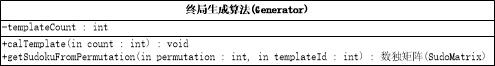
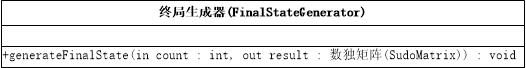
Site updated: 2020-01-17 15:29:04

Changed region(s): [[0.0, 0.0, 1.0, 1.0], [0.303, 0.0606, 0.697, 0.2727]]

diff --git a/2019/12/23/Software-Engineering-Project/index.html b/2019/12/23/Software-Engineering-Project/index.html
@@ -115,8 +115,12 @@
 <meta property="og:image" content="https://zhouyifan.net/2019/12/23/Software-Engineering-Project/ClassSolveAlgorithm.jpg">
 <meta property="og:image" content="https://zhouyifan.net/2019/12/23/Software-Engineering-Project/ClassGenerateAlgorithm.jpg">
 <meta property="og:image" content="https://zhouyifan.net/2019/12/23/Software-Engineering-Project/ClassGetEndGameAlgorithm.jpg">
+<meta property="og:image" content="https://zhouyifan.net/2019/12/23/Software-Engineering-Project/ClassGenerator.jpg">
+<meta property="og:image" content="https://zhouyifan.net/2019/12/23/Software-Engineering-Project/ClassSolver.jpg">
+<meta property="og:image" content="https://zhouyifan.net/2019/12/23/Software-Engineering-Project/ClassEndGameGenerator.jpg">
+<meta property="og:image" content="https://zhouyifan.net/2019/12/23/Software-Engineering-Project/ClassCmdInteraction.jpg">
 <meta property="og:image" content="https://zhouyifan.net/2019/12/23/Software-Engineering-Project/Result1-1.jpg">
-<meta property="og:updated_time" content="2020-01-17T02:35:47.576Z">
+<meta property="og:updated_time" content="2020-01-17T07:28:38.141Z">
 <meta name="twitter:card" content="summary">
 <meta name="twitter:title" content="软件工程个人项目：数独软件">
 <meta name="twitter:description" content="数独求解软件Github链接Sudoku Solver PSP耗时表    PSP2.1 Personal Software Process Stages Expected time (min) Actual time (min)     Planning 计划 20 50   · Estimate · 估计这个任务需要多少时间 20 50   Development 开发 980    · An">
@@ -642,11 +646,22 @@
 <p>(花费5分钟)</p>
 <h5 id="残局生成算法"><a href="#残局生成算法" class="headerlink" title="残局生成算法"></a>残局生成算法</h5><p><img src="//zhouyifan.net/2019/12/23/Software-Engineering-Project/ClassGetEndGameAlgorithm.jpg" alt="GetEndGame"></p>
 <p>(花费5分钟)</p>
+<h5 id="终局生成器"><a href="#终局生成器" class="headerlink" title="终局生成器"></a>终局生成器</h5><p><img src="//zhouyifan.net/2019/12/23/Software-Engineering-Project/ClassGenerator.jpg" alt="Generator"></p>
+<h5 id="求解器"><a href="#求解器" class="headerlink" title="求解器"></a>求解器</h5><p><img src="//zhouyifan.net/2019/12/23/Software-Engineering-Project/ClassSolver.jpg" alt="Solver"></p>
+<h5 id="残局生成器"><a href="#残局生成器" class="headerlink" title="残局生成器"></a>残局生成器</h5><p><img src="//zhouyifan.net/2019/12/23/Software-Engineering-Project/ClassEndGameGenerator.jpg" alt="EndGameGenerator"></p>
+<p>(共花费14分钟)</p>
+<h5 id="用户交互"><a href="#用户交互" class="headerlink" title="用户交互"></a>用户交互</h5><p>用户交互部分需要对数独矩阵进行输入输出。这一部分应该再用一个类来完成。</p>
+<p>用户的命令行命令可以分成两个部分：命令和参数。应该有检查命令和执行对应命令的函数也应该分成两大部分。</p>
+<p>执行命令的具体细节都交给对应的命令器完成。</p>
+<p><img src="//zhouyifan.net/2019/12/23/Software-Engineering-Project/ClassCmdInteraction.jpg" alt="CmdInteraction"></p>
+<p>（花费35分钟）</p>
 <h3 id="程序设计"><a href="#程序设计" class="headerlink" title="程序设计"></a>程序设计</h3><p>（已花费1小时）</p>
 <p>（又花费了2小时）</p>
 <p>（又花费了1小时40分钟）</p>
 <p>（又花费了40分钟）</p>
 <p>（又花费了30分钟）</p>
+<p>（又花费了45分钟）</p>
+<p>（又花费了60分钟）</p>
 <h4 id="求解算法-1"><a href="#求解算法-1" class="headerlink" title="求解算法"></a>求解算法</h4><p>根据之前的面向对象分析与设计，我实现了4个类：<code>SudoMatrix, SudoChoice, SudoState, SudoSolveAlgorithm</code>。和设计的时候相比，每个类有一些变化。</p>
 <p><code>SudoMatrix</code>多写了很多方便调用的静态函数，比如位置坐标和第几个宫第几个数坐标的互相转换。</p>
 <p><code>SudoChoice</code>所有的操作都是封装好的，比如加入一个选项，去掉一个选项。</p>
@@ -663,8 +678,7 @@
 <p>我在main函数里添加了一些临时代码，以验证求解算法的正确性和效率。</p>
 <p>我在<a href="http://www.sudoku.name/index-cn.php" target="_blank" rel="noopener">http://www.sudoku.name/index-cn.php</a> 这个网站上随便找了一个难度为困难的数独，在Release模式下运行代码。从结果中可以看出，算法非常高效且正确的完成了任务。</p>
 <h2 id="性能分析及程序优化"><a href="#性能分析及程序优化" class="headerlink" title="性能分析及程序优化"></a>性能分析及程序优化</h2><h2 id="最终程序代码说明"><a href="#最终程序代码说明" class="headerlink" title="最终程序代码说明"></a>最终程序代码说明</h2><h1 id="更新记录"><a href="#更新记录" class="headerlink" title="更新记录"></a>更新记录</h1><ul>
-<li><p>19.12.24 11:36 </p>
-<ol>
+<li>19.12.24 11:36 <ol>
 <li>添加博客地址。</li>
 <li>完成PSP耗时表。</li>
 </ol>
@@ -761,6 +775,18 @@
 </li>
 <li>博客进展<ol>
 <li>添加了残局生成算法类图。</li>
+</ol>
+</li>
+</ul>
+</li>
+<li><p>2020.1.17 15:10</p>
+<ul>
+<li>项目进展<ol>
+<li>设计并完成终局生成器、残局生成器、求解器、用户交互、数独矩阵IO类，但没有测试。</li>
+</ol>
+</li>
+<li>博客进展<ol>
+<li>添加项目进展中的设计类图。</li>
 </ol>
 </li>
 </ul>
@@ -975,7 +1001,7 @@
             
 
             
-              <div class="post-toc-content"><ol class="nav"><li class="nav-item nav-level-1"><a class="nav-link" href="#数独求解软件"><span class="nav-number">1.</span> <span class="nav-text">数独求解软件</span></a><ol class="nav-child"><li class="nav-item nav-level-2"><a class="nav-link" href="#Github链接"><span class="nav-number">1.1.</span> <span class="nav-text">Github链接</span></a></li><li class="nav-item nav-level-2"><a class="nav-link" href="#PSP耗时表"><span class="nav-number">1.2.</span> <span class="nav-text">PSP耗时表</span></a></li><li class="nav-item nav-level-2"><a class="nav-link" href="#解题思路"><span class="nav-number">1.3.</span> <span class="nav-text">解题思路</span></a><ol class="nav-child"><li class="nav-item nav-level-3"><a class="nav-link" href="#需求分析"><span class="nav-number">1.3.1.</span> <span class="nav-text">需求分析</span></a></li><li class="nav-item nav-level-3"><a class="nav-link" href="#解法思考"><span class="nav-number">1.3.2.</span> <span class="nav-text">解法思考</span></a><ol class="nav-child"><li class="nav-item nav-level-4"><a class="nav-link" href="#数独终局生成"><span class="nav-number">1.3.2.1.</span> <span class="nav-text">数独终局生成</span></a></li><li class="nav-item nav-level-4"><a class="nav-link" href="#数独求解"><span class="nav-number">1.3.2.2.</span> <span class="nav-text">数独求解</span></a></li><li class="nav-item nav-level-4"><a class="nav-link" href="#待求解数独生成"><span class="nav-number">1.3.2.3.</span> <span class="nav-text">待求解数独生成</span></a></li></ol></li></ol></li><li class="nav-item nav-level-2"><a class="nav-link" href="#设计实现过程"><span class="nav-number">1.4.</span> <span class="nav-text">设计实现过程</span></a><ol class="nav-child"><li class="nav-item nav-level-3"><a class="nav-link" href="#面向对象分析与设计"><span class="nav-number">1.4.1.</span> <span class="nav-text">面向对象分析与设计</span></a><ol class="nav-child"><li class="nav-item nav-level-4"><a class="nav-link" href="#用例图"><span class="nav-number">1.4.1.1.</span> <span class="nav-text">用例图</span></a></li><li class="nav-item nav-level-4"><a class="nav-link" href="#基本类图"><span class="nav-number">1.4.1.2.</span> <span class="nav-text">基本类图</span></a></li><li class="nav-item nav-level-4"><a class="nav-link" href="#活动图"><span class="nav-number">1.4.1.3.</span> <span class="nav-text">活动图</span></a><ol class="nav-child"><li class="nav-item nav-level-5"><a class="nav-link" href="#数独求解-1"><span class="nav-number">1.4.1.3.1.</span> <span class="nav-text">数独求解</span></a></li><li class="nav-item nav-level-5"><a class="nav-link" href="#终局生成"><span class="nav-number">1.4.1.3.2.</span> <span class="nav-text">终局生成</span></a></li></ol></li><li class="nav-item nav-level-4"><a class="nav-link" href="#精化类图"><span class="nav-number">1.4.1.4.</span> <span class="nav-text">精化类图</span></a><ol class="nav-child"><li class="nav-item nav-level-5"><a class="nav-link" href="#数独矩阵"><span class="nav-number">1.4.1.4.1.</span> <span class="nav-text">数独矩阵</span></a></li><li class="nav-item nav-level-5"><a class="nav-link" href="#数独状态"><span class="nav-number">1.4.1.4.2.</span> <span class="nav-text">数独状态</span></a></li><li class="nav-item nav-level-5"><a class="nav-link" href="#求解算法"><span class="nav-number">1.4.1.4.3.</span> <span class="nav-text">求解算法</span></a></li><li class="nav-item nav-level-5"><a class="nav-link" href="#生成算法"><span class="nav-number">1.4.1.4.4.</span> <span class="nav-text">生成算法</span></a></li><li class="nav-item nav-level-5"><a class="nav-link" href="#残局生成算法"><span class="nav-number">1.4.1.4.5.</span> <span class="nav-text">残局生成算法</span></a></li></ol></li></ol></li><li class="nav-item nav-level-3"><a class="nav-link" href="#程序设计"><span class="nav-number">1.4.2.</span> <span class="nav-text">程序设计</span></a><ol class="nav-child"><li class="nav-item nav-level-4"><a class="nav-link" href="#求解算法-1"><span class="nav-number">1.4.2.1.</span> <span class="nav-text">求解算法</span></a></li></ol></li><li class="nav-item nav-level-3"><a class="nav-link" href="#测试"><span class="nav-number">1.4.3.</span> <span class="nav-text">测试</span></a><ol class="nav-child"><li class="nav-item nav-level-4"><a class="nav-link" href="#求解算法-2"><span class="nav-number">1.4.3.1.</span> <span class="nav-text">求解算法</span></a></li></ol></li></ol></li><li class="nav-item nav-level-2"><a class="nav-link" href="#性能分析及程序优化"><span class="nav-number">1.5.</span> <span class="nav-text">性能分析及程序优化</span></a></li><li class="nav-item nav-level-2"><a class="nav-link" href="#最终程序代码说明"><span class="nav-number">1.6.</span> <span class="nav-text">最终程序代码说明</span></a></li></ol></li><li class="nav-item nav-level-1"><a class="nav-link" href="#更新记录"><span class="nav-number">2.</span> <span class="nav-text">更新记录</span></a></li></ol></div>
+              <div class="post-toc-content"><ol class="nav"><li class="nav-item nav-level-1"><a class="nav-link" href="#数独求解软件"><span class="nav-number">1.</span> <span class="nav-text">数独求解软件</span></a><ol class="nav-child"><li class="nav-item nav-level-2"><a class="nav-link" href="#Github链接"><span class="nav-number">1.1.</span> <span class="nav-text">Github链接</span></a></li><li class="nav-item nav-level-2"><a class="nav-link" href="#PSP耗时表"><span class="nav-number">1.2.</span> <span class="nav-text">PSP耗时表</span></a></li><li class="nav-item nav-level-2"><a class="nav-link" href="#解题思路"><span class="nav-number">1.3.</span> <span class="nav-text">解题思路</span></a><ol class="nav-child"><li class="nav-item nav-level-3"><a class="nav-link" href="#需求分析"><span class="nav-number">1.3.1.</span> <span class="nav-text">需求分析</span></a></li><li class="nav-item nav-level-3"><a class="nav-link" href="#解法思考"><span class="nav-number">1.3.2.</span> <span class="nav-text">解法思考</span></a><ol class="nav-child"><li class="nav-item nav-level-4"><a class="nav-link" href="#数独终局生成"><span class="nav-number">1.3.2.1.</span> <span class="nav-text">数独终局生成</span></a></li><li class="nav-item nav-level-4"><a class="nav-link" href="#数独求解"><span class="nav-number">1.3.2.2.</span> <span class="nav-text">数独求解</span></a></li><li class="nav-item nav-level-4"><a class="nav-link" href="#待求解数独生成"><span class="nav-number">1.3.2.3.</span> <span class="nav-text">待求解数独生成</span></a></li></ol></li></ol></li><li class="nav-item nav-level-2"><a class="nav-link" href="#设计实现过程"><span class="nav-number">1.4.</span> <span class="nav-text">设计实现过程</span></a><ol class="nav-child"><li class="nav-item nav-level-3"><a class="nav-link" href="#面向对象分析与设计"><span class="nav-number">1.4.1.</span> <span class="nav-text">面向对象分析与设计</span></a><ol class="nav-child"><li class="nav-item nav-level-4"><a class="nav-link" href="#用例图"><span class="nav-number">1.4.1.1.</span> <span class="nav-text">用例图</span></a></li><li class="nav-item nav-level-4"><a class="nav-link" href="#基本类图"><span class="nav-number">1.4.1.2.</span> <span class="nav-text">基本类图</span></a></li><li class="nav-item nav-level-4"><a class="nav-link" href="#活动图"><span class="nav-number">1.4.1.3.</span> <span class="nav-text">活动图</span></a><ol class="nav-child"><li class="nav-item nav-level-5"><a class="nav-link" href="#数独求解-1"><span class="nav-number">1.4.1.3.1.</span> <span class="nav-text">数独求解</span></a></li><li class="nav-item nav-level-5"><a class="nav-link" href="#终局生成"><span class="nav-number">1.4.1.3.2.</span> <span class="nav-text">终局生成</span></a></li></ol></li><li class="nav-item nav-level-4"><a class="nav-link" href="#精化类图"><span class="nav-number">1.4.1.4.</span> <span class="nav-text">精化类图</span></a><ol class="nav-child"><li class="nav-item nav-level-5"><a class="nav-link" href="#数独矩阵"><span class="nav-number">1.4.1.4.1.</span> <span class="nav-text">数独矩阵</span></a></li><li class="nav-item nav-level-5"><a class="nav-link" href="#数独状态"><span class="nav-number">1.4.1.4.2.</span> <span class="nav-text">数独状态</span></a></li><li class="nav-item nav-level-5"><a class="nav-link" href="#求解算法"><span class="nav-number">1.4.1.4.3.</span> <span class="nav-text">求解算法</span></a></li><li class="nav-item nav-level-5"><a class="nav-link" href="#生成算法"><span class="nav-number">1.4.1.4.4.</span> <span class="nav-text">生成算法</span></a></li><li class="nav-item nav-level-5"><a class="nav-link" href="#残局生成算法"><span class="nav-number">1.4.1.4.5.</span> <span class="nav-text">残局生成算法</span></a></li><li class="nav-item nav-level-5"><a class="nav-link" href="#终局生成器"><span class="nav-number">1.4.1.4.6.</span> <span class="nav-text">终局生成器</span></a></li><li class="nav-item nav-level-5"><a class="nav-link" href="#求解器"><span class="nav-number">1.4.1.4.7.</span> <span class="nav-text">求解器</span></a></li><li class="nav-item nav-level-5"><a class="nav-link" href="#残局生成器"><span class="nav-number">1.4.1.4.8.</span> <span class="nav-text">残局生成器</span></a></li><li class="nav-item nav-level-5"><a class="nav-link" href="#用户交互"><span class="nav-number">1.4.1.4.9.</span> <span class="nav-text">用户交互</span></a></li></ol></li></ol></li><li class="nav-item nav-level-3"><a class="nav-link" href="#程序设计"><span class="nav-number">1.4.2.</span> <span class="nav-text">程序设计</span></a><ol class="nav-child"><li class="nav-item nav-level-4"><a class="nav-link" href="#求解算法-1"><span class="nav-number">1.4.2.1.</span> <span class="nav-text">求解算法</span></a></li></ol></li><li class="nav-item nav-level-3"><a class="nav-link" href="#测试"><span class="nav-number">1.4.3.</span> <span class="nav-text">测试</span></a><ol class="nav-child"><li class="nav-item nav-level-4"><a class="nav-link" href="#求解算法-2"><span class="nav-number">1.4.3.1.</span> <span class="nav-text">求解算法</span></a></li></ol></li></ol></li><li class="nav-item nav-level-2"><a class="nav-link" href="#性能分析及程序优化"><span class="nav-number">1.5.</span> <span class="nav-text">性能分析及程序优化</span></a></li><li class="nav-item nav-level-2"><a class="nav-link" href="#最终程序代码说明"><span class="nav-number">1.6.</span> <span class="nav-text">最终程序代码说明</span></a></li></ol></li><li class="nav-item nav-level-1"><a class="nav-link" href="#更新记录"><span class="nav-number">2.</span> <span class="nav-text">更新记录</span></a></li></ol></div>
             
 
           </div>

diff --git a/page/2/index.html b/page/2/index.html
@@ -632,11 +632,22 @@
 <p>(花费5分钟)</p>
 <h5 id="残局生成算法"><a href="#残局生成算法" class="headerlink" title="残局生成算法"></a>残局生成算法</h5><p><img src="//zhouyifan.net/2019/12/23/Software-Engineering-Project/ClassGetEndGameAlgorithm.jpg" alt="GetEndGame"></p>
 <p>(花费5分钟)</p>
+<h5 id="终局生成器"><a href="#终局生成器" class="headerlink" title="终局生成器"></a>终局生成器</h5><p><img src="//zhouyifan.net/2019/12/23/Software-Engineering-Project/ClassGenerator.jpg" alt="Generator"></p>
+<h5 id="求解器"><a href="#求解器" class="headerlink" title="求解器"></a>求解器</h5><p><img src="//zhouyifan.net/2019/12/23/Software-Engineering-Project/ClassSolver.jpg" alt="Solver"></p>
+<h5 id="残局生成器"><a href="#残局生成器" class="headerlink" title="残局生成器"></a>残局生成器</h5><p><img src="//zhouyifan.net/2019/12/23/Software-Engineering-Project/ClassEndGameGenerator.jpg" alt="EndGameGenerator"></p>
+<p>(共花费14分钟)</p>
+<h5 id="用户交互"><a href="#用户交互" class="headerlink" title="用户交互"></a>用户交互</h5><p>用户交互部分需要对数独矩阵进行输入输出。这一部分应该再用一个类来完成。</p>
+<p>用户的命令行命令可以分成两个部分：命令和参数。应该有检查命令和执行对应命令的函数也应该分成两大部分。</p>
+<p>执行命令的具体细节都交给对应的命令器完成。</p>
+<p><img src="//zhouyifan.net/2019/12/23/Software-Engineering-Project/ClassCmdInteraction.jpg" alt="CmdInteraction"></p>
+<p>（花费35分钟）</p>
 <h3 id="程序设计"><a href="#程序设计" class="headerlink" title="程序设计"></a>程序设计</h3><p>（已花费1小时）</p>
 <p>（又花费了2小时）</p>
 <p>（又花费了1小时40分钟）</p>
 <p>（又花费了40分钟）</p>
 <p>（又花费了30分钟）</p>
+<p>（又花费了45分钟）</p>
+<p>（又花费了60分钟）</p>
 <h4 id="求解算法-1"><a href="#求解算法-1" class="headerlink" title="求解算法"></a>求解算法</h4><p>根据之前的面向对象分析与设计，我实现了4个类：<code>SudoMatrix, SudoChoice, SudoState, SudoSolveAlgorithm</code>。和设计的时候相比，每个类有一些变化。</p>
 <p><code>SudoMatrix</code>多写了很多方便调用的静态函数，比如位置坐标和第几个宫第几个数坐标的互相转换。</p>
 <p><code>SudoChoice</code>所有的操作都是封装好的，比如加入一个选项，去掉一个选项。</p>
@@ -653,8 +664,7 @@
 <p>我在main函数里添加了一些临时代码，以验证求解算法的正确性和效率。</p>
 <p>我在<a href="http://www.sudoku.name/index-cn.php" target="_blank" rel="noopener">http://www.sudoku.name/index-cn.php</a> 这个网站上随便找了一个难度为困难的数独，在Release模式下运行代码。从结果中可以看出，算法非常高效且正确的完成了任务。</p>
 <h2 id="性能分析及程序优化"><a href="#性能分析及程序优化" class="headerlink" title="性能分析及程序优化"></a>性能分析及程序优化</h2><h2 id="最终程序代码说明"><a href="#最终程序代码说明" class="headerlink" title="最终程序代码说明"></a>最终程序代码说明</h2><h1 id="更新记录"><a href="#更新记录" class="headerlink" title="更新记录"></a>更新记录</h1><ul>
-<li><p>19.12.24 11:36 </p>
-<ol>
+<li>19.12.24 11:36 <ol>
 <li>添加博客地址。</li>
 <li>完成PSP耗时表。</li>
 </ol>
@@ -751,6 +761,18 @@
 </li>
 <li>博客进展<ol>
 <li>添加了残局生成算法类图。</li>
+</ol>
+</li>
+</ul>
+</li>
+<li><p>2020.1.17 15:10</p>
+<ul>
+<li>项目进展<ol>
+<li>设计并完成终局生成器、残局生成器、求解器、用户交互、数独矩阵IO类，但没有测试。</li>
+</ol>
+</li>
+<li>博客进展<ol>
+<li>添加项目进展中的设计类图。</li>
 </ol>
 </li>
 </ul>

diff --git a/css/main.css b/css/main.css
@@ -1891,7 +1891,7 @@ pre .javascript .function {
   width: 4px;
   height: 4px;
   border-radius: 50%;
-  background: #b34ba1;
+  background: #ff4678;
 }
 .links-of-blogroll {
   font-size: 13px;
